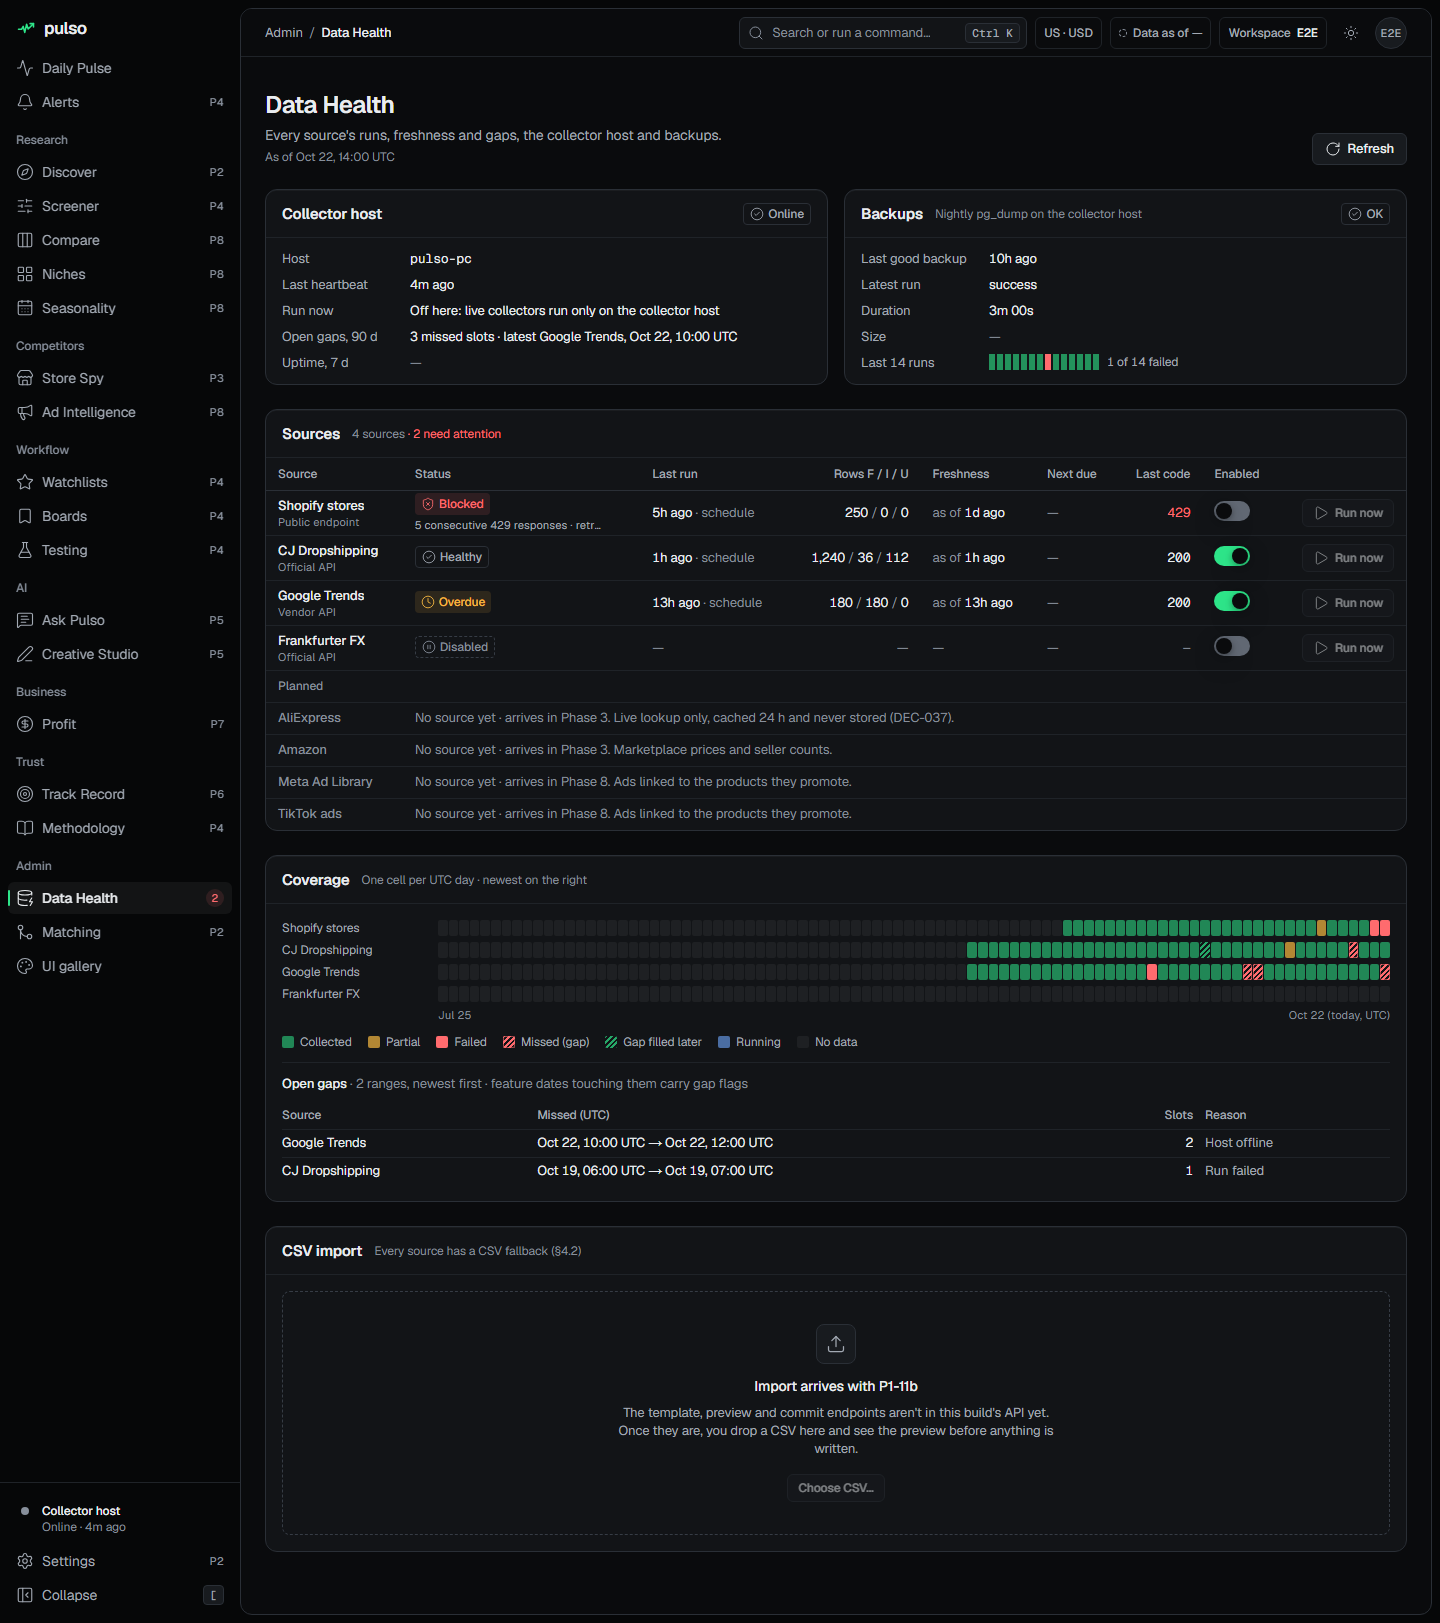
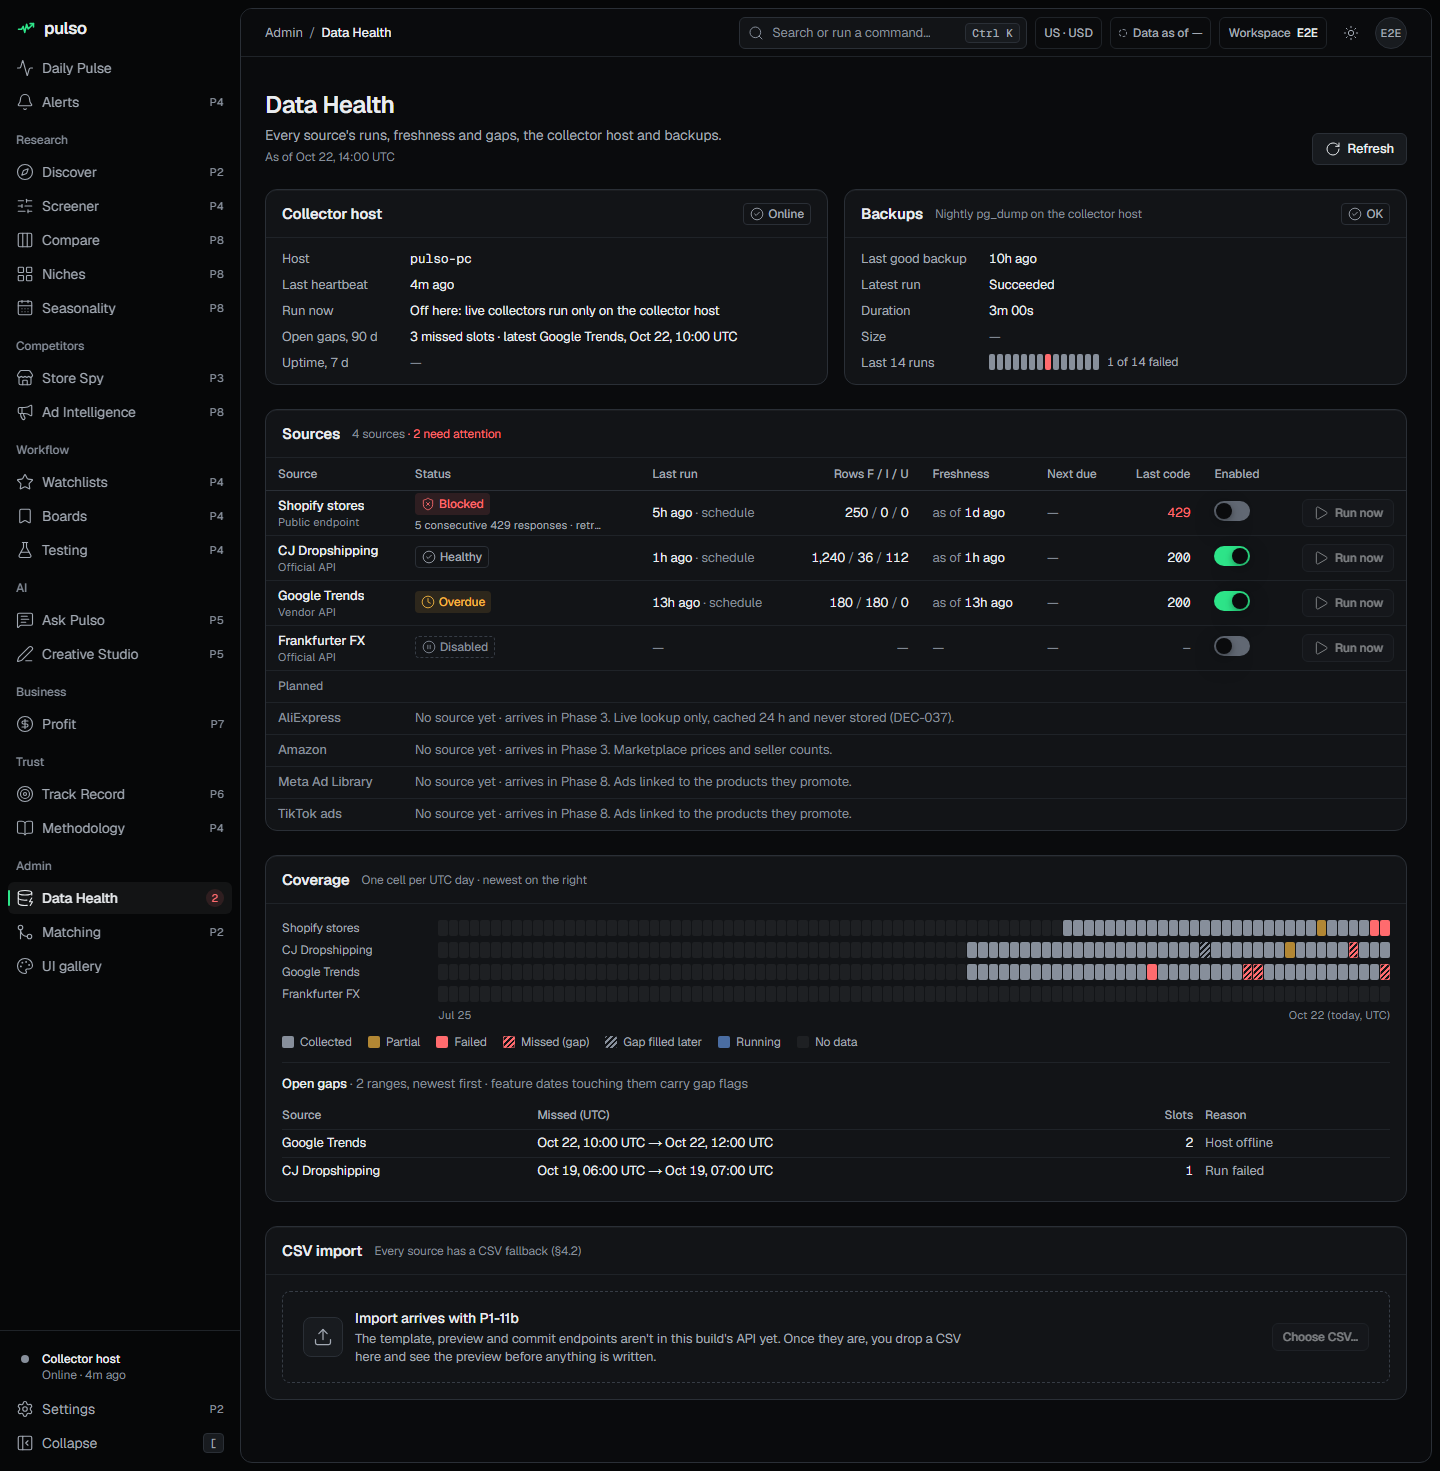
fix(web): compact disabled CSV import panel (design review round 2); P1-12 screenshots

diff --git a/apps/web/src/components/data-health/data-health.tsx b/apps/web/src/components/data-health/data-health.tsx
@@ -102,16 +102,18 @@ export function DataHealth() {
 function ImportPanel() {
   return (
     <Panel id="import" title="CSV import" note="Every source has a CSV fallback (§4.2)">
-      <div className="m-4 flex flex-col items-center gap-2 rounded-lg border border-dashed border-border-strong px-6 py-6 text-center">
-        <div className="mb-1 grid size-10 place-items-center rounded-lg border border-border bg-secondary text-muted-foreground">
+      <div className="m-4 flex flex-col items-center gap-3 rounded-lg border border-dashed border-border-strong px-5 py-4 text-center sm:flex-row sm:text-left">
+        <div className="grid size-10 shrink-0 place-items-center rounded-lg border border-border bg-secondary text-muted-foreground">
           <Upload className="size-5" aria-hidden />
         </div>
-        <h3 className="text-body font-medium text-foreground">Import arrives with P1-11b</h3>
-        <p className="max-w-[52ch] text-data text-muted-foreground">
-          The template, preview and commit endpoints aren&apos;t in this build&apos;s API yet. Once they are, you drop a CSV here and see
-          the preview before anything is written.
-        </p>
-        <Button variant="secondary" size="sm" disabled className="mt-2">
+        <div className="flex flex-col gap-0.5">
+          <h3 className="text-body font-medium text-foreground">Import arrives with P1-11b</h3>
+          <p className="max-w-[72ch] text-data text-muted-foreground">
+            The template, preview and commit endpoints aren&apos;t in this build&apos;s API yet. Once they are, you drop a CSV here and see
+            the preview before anything is written.
+          </p>
+        </div>
+        <Button variant="secondary" size="sm" disabled className="sm:ml-auto">
           Choose CSV…
         </Button>
       </div>
